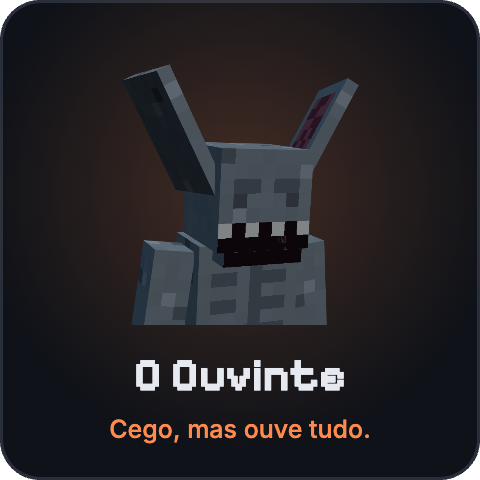
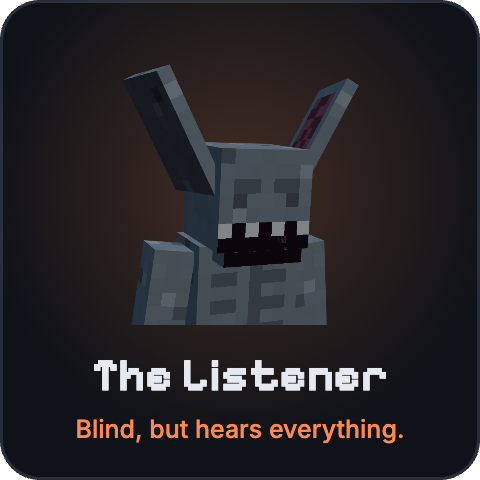
CurseForge: descrição e imagens em inglês
O CurseForge exige o inglês antes de qualquer outro idioma. A descrição agora
traz a versão em inglês primeiro e a em português depois, e o banner, os botões,
os cartões e o rodapé foram refeitos em inglês com o mesmo visual.

Changed region(s): [[0.1562, 0.875, 0.8438, 0.9375], [0.1875, 0.75, 0.8125, 0.8125]]

diff --git a/branding/descricao-curseforge.html b/branding/descricao-curseforge.html
@@ -1,12 +1,37 @@
-<p style="text-align: center;"><img src="https://raw.githubusercontent.com/pedrorreiro/hushfall/main/branding/curseforge/banner.png" alt="Hushfall: à noite, uma criatura cega caça pelo som" width="1344" height="576" /></p>
-<p style="text-align: center;"><a href="https://hushfall-minecraft.vercel.app/" target="_blank" rel="noopener"><img src="https://raw.githubusercontent.com/pedrorreiro/hushfall/main/branding/curseforge/btn_site.png" alt="Site oficial" width="132" height="40" /></a> <a href="https://github.com/pedrorreiro/hushfall" target="_blank" rel="noopener"><img src="https://raw.githubusercontent.com/pedrorreiro/hushfall/main/branding/curseforge/btn_github.png" alt="GitHub" width="120" height="40" /></a> <a href="https://github.com/pedrorreiro/hushfall/blob/main/REGRAS.md" target="_blank" rel="noopener"><img src="https://raw.githubusercontent.com/pedrorreiro/hushfall/main/branding/curseforge/btn_regras.png" alt="Regras completas" width="208" height="40" /></a></p>
+<p style="text-align: center;"><img src="https://raw.githubusercontent.com/pedrorreiro/hushfall/main/branding/curseforge/banner.png" alt="Hushfall: at night, a blind creature hunts by sound" width="1344" height="576" /></p>
+<p style="text-align: center;"><a href="https://hushfall-minecraft.vercel.app/" target="_blank" rel="noopener"><img src="https://raw.githubusercontent.com/pedrorreiro/hushfall/main/branding/curseforge/btn_site.png" alt="Official site" width="138" height="40" /></a> <a href="https://github.com/pedrorreiro/hushfall" target="_blank" rel="noopener"><img src="https://raw.githubusercontent.com/pedrorreiro/hushfall/main/branding/curseforge/btn_github.png" alt="GitHub" width="120" height="40" /></a> <a href="https://github.com/pedrorreiro/hushfall/blob/main/REGRAS.md" target="_blank" rel="noopener"><img src="https://raw.githubusercontent.com/pedrorreiro/hushfall/main/branding/curseforge/btn_regras.png" alt="Full rules (PT-BR)" width="188" height="40" /></a></p>
+<h3>About</h3>
+<p>Some nights, something wakes up: the <strong>Listener</strong>, a tall, eyeless creature with huge ears. It can't see you, but it hears everything. Light, invisibility and hiding spots don't fool it. <strong>Only silence works.</strong> During the day nothing changes: build, explore, farm. When the sun goes down, you learn to keep quiet.</p>
+<p style="text-align: center;"><img src="https://raw.githubusercontent.com/pedrorreiro/hushfall/main/branding/curseforge/divider.png" alt="" width="1344" height="48" /></p>
+<h3>How it works</h3>
+<ul>
+<li><strong>Not every night:</strong> the first night is always safe. After that, the Listener comes on some nights and not on others. A message at dusk tells you which kind of night it is.</li>
+<li><strong>Noise meter:</strong> a ring in the corner of the screen shows how much noise you make. <strong>Low</strong>, it comes to prowl around. <strong>Audible</strong>, it comes to investigate, from anywhere. <strong>Loud!</strong>, it roars and hunts you down.</li>
+<li><strong>Makes noise:</strong> running, jumping, breaking blocks, opening chests and doors, fighting, riding a boat or a minecart.</li>
+<li><strong>Keeps you quiet:</strong> crouching, walking on wool, carpet, snow or water, rain and the Felt Boots.</li>
+<li><strong>It always warns you first:</strong> a growl when it appears and a roar before every chase. Heart pounding? It's close.</li>
+</ul>
+<p style="text-align: center;"><img src="https://raw.githubusercontent.com/pedrorreiro/hushfall/main/branding/curseforge/t1_ouvinte.png" alt="The Listener" width="200" height="200" /> <img src="https://raw.githubusercontent.com/pedrorreiro/hushfall/main/branding/curseforge/t2_medidor.png" alt="Noise meter" width="200" height="200" /> <img src="https://raw.githubusercontent.com/pedrorreiro/hushfall/main/branding/curseforge/t3_botas.png" alt="Felt Boots" width="200" height="200" /> <img src="https://raw.githubusercontent.com/pedrorreiro/hushfall/main/branding/curseforge/t4_adaga.png" alt="Silent Dagger" width="200" height="200" /><br /><img src="https://raw.githubusercontent.com/pedrorreiro/hushfall/main/branding/curseforge/t5_sino.png" alt="Deafening Bell" width="200" height="200" /> <img src="https://raw.githubusercontent.com/pedrorreiro/hushfall/main/branding/curseforge/t6_orelha.png" alt="Listener's Ear" width="200" height="200" /> <img src="https://raw.githubusercontent.com/pedrorreiro/hushfall/main/branding/curseforge/t7_porta.png" alt="Iron door" width="200" height="200" /> <img src="https://raw.githubusercontent.com/pedrorreiro/hushfall/main/branding/curseforge/t8_cama.png" alt="Sleeping" width="200" height="200" /></p>
+<h3>Surviving the night</h3>
+<ul>
+<li><strong>Home:</strong> make noise inside and it breaks down wooden doors. Iron doors hold.</li>
+<li><strong>Sleeping:</strong> if you're quiet, it doesn't even know you're there. Go to bed.</li>
+<li><strong>Distractions:</strong> bells and note blocks pull its attention away. But it learns from false alarms.</li>
+<li><strong>Fighting:</strong> it never heals, not even from one night to the next. Defeated, it drops the Listener's Ear, used to craft the Deafening Bell.</li>
+<li><strong>No escape by logging out:</strong> leave the world in the middle of a chase and it is still after you when you come back.</li>
+</ul>
+<p style="text-align: center;"><img src="https://raw.githubusercontent.com/pedrorreiro/hushfall/main/branding/curseforge/divider.png" alt="" width="1344" height="48" /></p>
+<h3>Requirements</h3>
+<p>Minecraft Java <strong>26.3</strong> with <strong>Fabric Loader</strong> and <strong>Fabric API</strong>. Works in singleplayer and multiplayer: install it on the server and on every player's game. <a href="https://modrinth.com/mod/modmenu" target="_blank" rel="noopener">Mod Menu</a> is optional and lets you move and resize the noise meter.</p>
+<p style="text-align: center;"><img src="https://raw.githubusercontent.com/pedrorreiro/hushfall/main/branding/curseforge/divider.png" alt="" width="1344" height="48" /></p>
+<h2>Português</h2>
 <h3>Sobre</h3>
 <p>Em algumas noites, algo acorda: o <strong>Ouvinte</strong>, uma criatura alta, sem olhos e com orelhas enormes. Ele não enxerga você, mas ouve tudo. Luz, invisibilidade e esconderijos não enganam. <strong>Só o silêncio funciona.</strong> De dia nada muda: construa, explore, plante. Quando o sol se põe, você aprende a ficar quieto.</p>
 <p style="text-align: center;"><img src="https://raw.githubusercontent.com/pedrorreiro/hushfall/main/branding/curseforge/divider.png" alt="" width="1344" height="48" /></p>
 <h3>Como funciona</h3>
 <ul>
 <li><strong>Medidor de barulho:</strong> um anel no canto da tela mostra quanto barulho você faz. <strong>Baixinho</strong>, ele vem rondar. <strong>Audível</strong>, ele vem investigar, de onde estiver. <strong>Alto!</strong>, ele ruge e caça você.</li>
-<li><strong>Faz barulho:</strong> correr, pular, quebrar blocos, abrir baús e portas, lutar.</li>
+<li><strong>Faz barulho:</strong> correr, pular, quebrar blocos, abrir baús e portas, lutar, andar de barco ou de carrinho de mina.</li>
 <li><strong>Ajuda a ficar quieto:</strong> agachar, andar em lã, tapete, neve ou água, chuva e as Botas de Feltro.</li>
 <li><strong>Ele sempre avisa antes:</strong> um rosnado quando aparece e um rugido antes de toda caçada. Coração disparou? Ele está perto.</li>
 </ul>
@@ -17,8 +42,9 @@
 <li><strong>Dormir:</strong> em silêncio, ele nem sabe que você está ali. Pode deitar.</li>
 <li><strong>Distrações:</strong> sinos e note blocks chamam a atenção dele para longe.</li>
 <li><strong>Combate:</strong> ele não se cura, nem de uma noite para a outra. Derrotado, deixa a Orelha do Ouvinte, usada no Sino Ensurdecedor.</li>
+<li><strong>Sair do mundo não salva:</strong> se você sair no meio de uma caçada, ele continua atrás de você quando você voltar.</li>
 </ul>
 <p style="text-align: center;"><img src="https://raw.githubusercontent.com/pedrorreiro/hushfall/main/branding/curseforge/divider.png" alt="" width="1344" height="48" /></p>
 <h3>Requisitos</h3>
-<p>Minecraft Java <strong>26.3</strong> com <strong>Fabric Loader</strong> e <strong>Fabric API</strong>. Funciona no singleplayer e no multiplayer: instale no servidor e no jogo de cada jogador.</p>
-<p style="text-align: center;"><a href="https://hushfall-minecraft.vercel.app/" target="_blank" rel="noopener"><img src="https://raw.githubusercontent.com/pedrorreiro/hushfall/main/branding/curseforge/footer.png" alt="Veja o Ouvinte em 3D no site oficial" width="1280" height="184" /></a></p>
+<p>Minecraft Java <strong>26.3</strong> com <strong>Fabric Loader</strong> e <strong>Fabric API</strong>. Funciona no singleplayer e no multiplayer: instale no servidor e no jogo de cada jogador. O <a href="https://modrinth.com/mod/modmenu" target="_blank" rel="noopener">Mod Menu</a> é opcional e permite mudar a posição e o tamanho do medidor.</p>
+<p style="text-align: center;"><a href="https://hushfall-minecraft.vercel.app/" target="_blank" rel="noopener"><img src="https://raw.githubusercontent.com/pedrorreiro/hushfall/main/branding/curseforge/footer.png" alt="See the Listener in 3D on the official site" width="1280" height="184" /></a></p>

diff --git a/branding/descricao.md b/branding/descricao.md
@@ -21,7 +21,7 @@ During the day, nothing changes. Build, explore, farm. When the sun goes down, y
 
 | Makes noise | Keeps you quiet |
 |---|---|
-| Running and jumping | Crouching or standing still |
+| Running and jumping, riding a boat or a minecart | Crouching or standing still |
 | Breaking blocks (stone is the worst) | Walking on wool, carpet or snow |
 | Opening chests, doors and gates | Walking in water |
 | Fighting | Rain and thunderstorms |
@@ -32,6 +32,7 @@ During the day, nothing changes. Build, explore, farm. When the sun goes down, y
 - **Home:** stay quiet and it has no reason to come in. Make noise inside and it will break down wooden doors. **Iron doors hold.**
 - **Sleeping:** it's blind, so if you're quiet it doesn't even know you're there. Get home, let your meter drop to zero and go to bed.
 - **Distractions:** bells, note blocks, pistons, dispensers or an arrow landing far away pull its attention elsewhere. But it learns from false alarms.
+- **No escape by logging out:** leave the world in the middle of a chase and it is still after you when you come back.
 - **Traps:** it doesn't notice holes. A deep pit between you and a sound is a trap.
 
 ## Fighting back
@@ -54,6 +55,7 @@ The Listener is a boss and hits very hard. Running is usually the smart move, bu
 - Minecraft Java **26.3**
 - **Fabric Loader** and **Fabric API**
 - Works in singleplayer and multiplayer. Install it on the server and on every player's game.
+- Optional: **Mod Menu**, to move and resize the noise meter.
 
 The Listener only appears in the Overworld, respects the difficulty setting (it never spawns on Peaceful) and the `spawn_monsters` and `mob_griefing` game rules. Options like how often it comes can be changed in `config/silenciototal.json`.
 
@@ -80,7 +82,7 @@ De dia nada muda: construa, explore, plante. Quando o sol se põe, você aprende
 
 | Faz barulho | Ajuda a ficar quieto |
 |---|---|
-| Correr e pular | Agachar ou ficar parado |
+| Correr e pular, andar de barco ou de carrinho de mina | Agachar ou ficar parado |
 | Quebrar blocos (pedra é o pior) | Andar em lã, tapete ou neve |
 | Abrir baús, portas e portões | Andar na água |
 | Lutar | Chuva e trovoada |
@@ -91,6 +93,7 @@ De dia nada muda: construa, explore, plante. Quando o sol se põe, você aprende
 - **Em casa:** em silêncio, ele não tem motivo para entrar. Fazendo barulho lá dentro, ele arromba portas de madeira. **Porta de ferro aguenta.**
 - **Hora de dormir:** ele é cego. Se você está quieto, ele nem sabe que você está ali. Chegue em casa, espere o medidor zerar e deite.
 - **Distrações:** sinos, note blocks, pistões, dispensadores ou uma flecha caindo longe chamam a atenção dele para outro lugar. Mas ele aprende com alarmes falsos.
+- **Sair do mundo não salva:** se você sair no meio de uma caçada, ele continua atrás de você quando você voltar.
 - **Armadilhas:** ele não percebe buracos. Um buraco fundo entre você e um som vira armadilha.
 
 ## Combate
@@ -113,5 +116,6 @@ O Ouvinte é um chefe e bate muito forte. Fugir costuma ser a melhor ideia, mas 
 - Minecraft Java **26.3**
 - **Fabric Loader** e **Fabric API**
 - Funciona no singleplayer e no multiplayer. Instale no servidor e no jogo de cada jogador.
+- Opcional: **Mod Menu**, para mudar a posição e o tamanho do medidor.
 
 O Ouvinte só aparece no Overworld, respeita a dificuldade (nunca aparece no Pacífico) e as regras `spawn_monsters` e `mob_griefing`. Opções como a frequência das noites com ele ficam em `config/silenciototal.json`.
